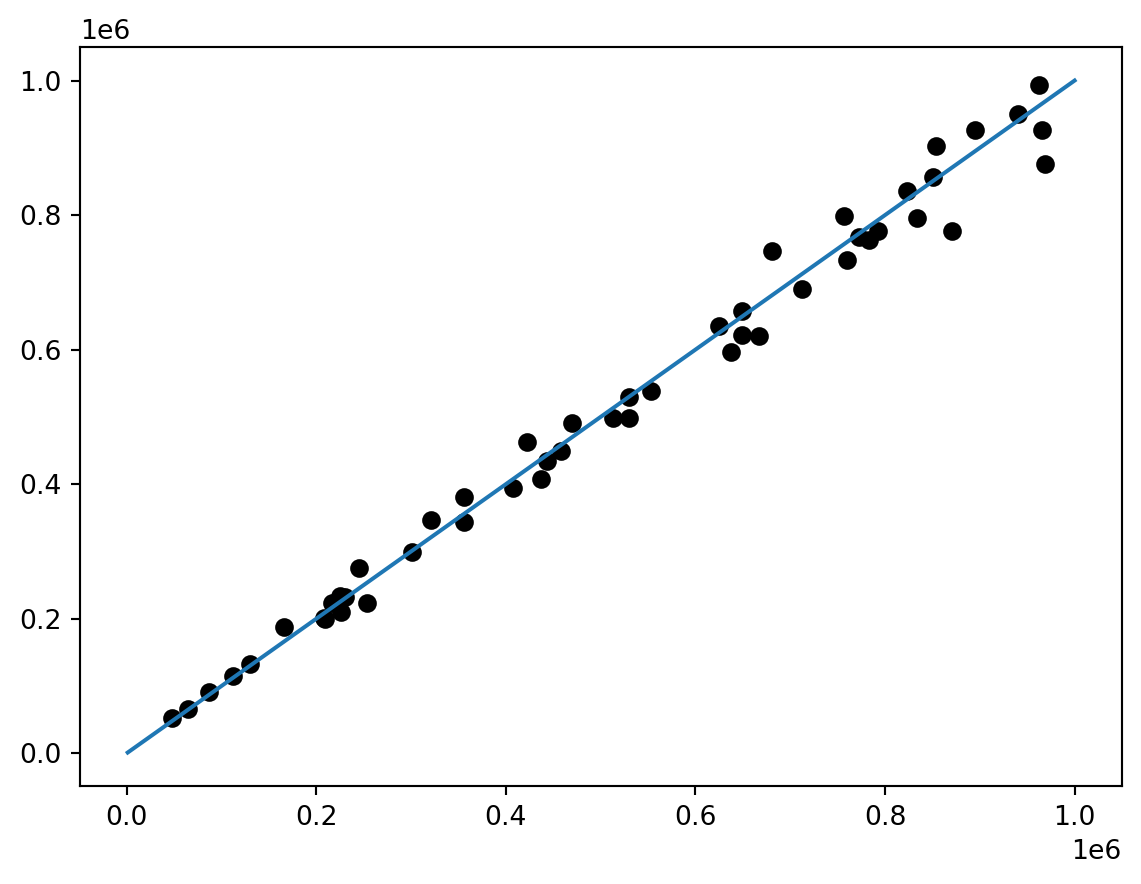
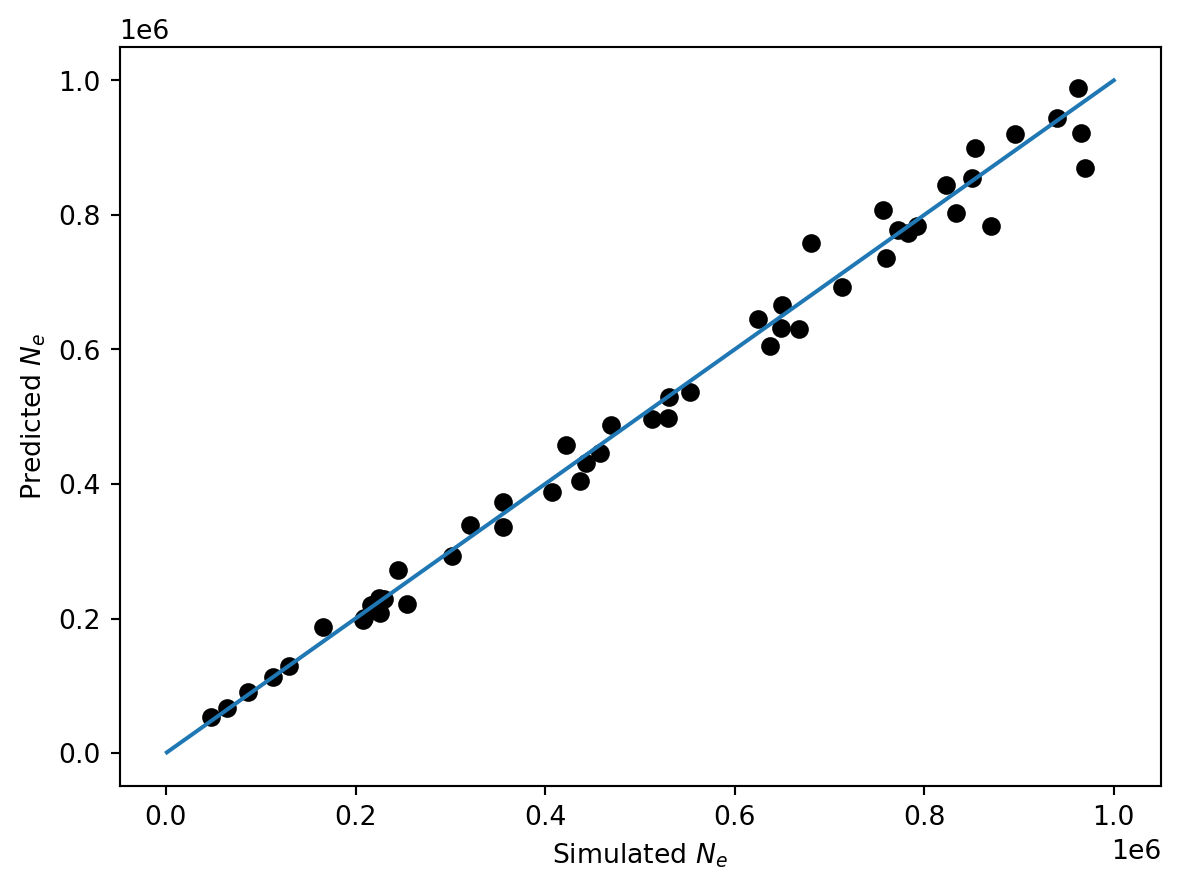
labeled axes, and minor edits

diff --git a/index.html b/index.html
@@ -112,7 +112,8 @@ code span.wa { color: #60a0b0; font-weight: bold; font-style: italic; } /* Warni
 
 
 
-<p># Deep Learning Popgen Crash Course</p>
+<section id="deep-learning-popgen-crash-course" class="level1">
+<h1>Deep Learning Popgen Crash Course</h1>
 <p>Here’s a quick tutorial on how you might deploy deep learning to solve a popgen problem.</p>
 <p>The lab has historically used Tensorflow and Keras, but we’re moving toward PyTorch, so we’ll use that here. A lot of the details overlap, and it’s useful to know both (at least a little).</p>
 <ol type="1">
@@ -436,34 +437,34 @@ Turns out batching data like this also has benefits for optimization, but even i
 <span id="cb12-36"><a href="#cb12-36" aria-hidden="true" tabindex="-1"></a>    <span class="cf">if</span> epoch <span class="op">%</span> <span class="dv">2</span> <span class="op">==</span> <span class="dv">0</span>:</span>
 <span id="cb12-37"><a href="#cb12-37" aria-hidden="true" tabindex="-1"></a>        <span class="bu">print</span>(<span class="ss">f'Epoch </span><span class="sc">{</span>epoch<span class="sc">}</span><span class="ss"> Loss </span><span class="sc">{</span>loss<span class="sc">.</span>item()<span class="sc">:.4f}</span><span class="ss">'</span>)</span></code><button title="Copy to Clipboard" class="code-copy-button"><i class="bi"></i></button></pre></div>
 <div class="cell-output cell-output-stdout">
-<pre><code>Epoch 0 Loss 0.2600</code></pre>
+<pre><code>Epoch 0 Loss 0.3823</code></pre>
 </div>
 <div class="cell-output cell-output-stdout">
-<pre><code>Epoch 2 Loss 0.1398</code></pre>
+<pre><code>Epoch 2 Loss 0.1863</code></pre>
 </div>
 <div class="cell-output cell-output-stdout">
-<pre><code>Epoch 4 Loss 0.0686</code></pre>
+<pre><code>Epoch 4 Loss 0.0580</code></pre>
 </div>
 <div class="cell-output cell-output-stdout">
-<pre><code>Epoch 6 Loss 0.1276</code></pre>
+<pre><code>Epoch 6 Loss 0.0840</code></pre>
 </div>
 <div class="cell-output cell-output-stdout">
-<pre><code>Epoch 8 Loss 0.4606</code></pre>
+<pre><code>Epoch 8 Loss 0.0409</code></pre>
 </div>
 <div class="cell-output cell-output-stdout">
-<pre><code>Epoch 10 Loss 0.1594</code></pre>
+<pre><code>Epoch 10 Loss 0.1573</code></pre>
 </div>
 <div class="cell-output cell-output-stdout">
-<pre><code>Epoch 12 Loss 0.0647</code></pre>
+<pre><code>Epoch 12 Loss 0.1474</code></pre>
 </div>
 <div class="cell-output cell-output-stdout">
-<pre><code>Epoch 14 Loss 0.0273</code></pre>
+<pre><code>Epoch 14 Loss 0.0535</code></pre>
 </div>
 <div class="cell-output cell-output-stdout">
-<pre><code>Epoch 16 Loss 0.1496</code></pre>
+<pre><code>Epoch 16 Loss 0.3484</code></pre>
 </div>
 <div class="cell-output cell-output-stdout">
-<pre><code>Epoch 18 Loss 0.0246</code></pre>
+<pre><code>Epoch 18 Loss 0.0359</code></pre>
 </div>
 </div>
 </section>
@@ -477,9 +478,11 @@ Turns out batching data like this also has benefits for optimization, but even i
 <span id="cb23-4"><a href="#cb23-4" aria-hidden="true" tabindex="-1"></a>    ax.scatter(popgen_training.Ne_scaling<span class="op">*</span>y_batch.item(), popgen_training.Ne_scaling<span class="op">*</span>pred.item(), color <span class="op">=</span> <span class="st">'black'</span>)</span>
 <span id="cb23-5"><a href="#cb23-5" aria-hidden="true" tabindex="-1"></a>one_one <span class="op">=</span> np.linspace(popgen_training.Ne_low, popgen_training.Ne_high, <span class="dv">100</span>)</span>
 <span id="cb23-6"><a href="#cb23-6" aria-hidden="true" tabindex="-1"></a>ax.plot(one_one, one_one)</span>
-<span id="cb23-7"><a href="#cb23-7" aria-hidden="true" tabindex="-1"></a>plt.show()</span></code><button title="Copy to Clipboard" class="code-copy-button"><i class="bi"></i></button></pre></div>
+<span id="cb23-7"><a href="#cb23-7" aria-hidden="true" tabindex="-1"></a>ax.set_xlabel(<span class="st">"Simulated $N_e$"</span>)</span>
+<span id="cb23-8"><a href="#cb23-8" aria-hidden="true" tabindex="-1"></a>ax.set_ylabel(<span class="st">"Predicted $N_e$"</span>)</span>
+<span id="cb23-9"><a href="#cb23-9" aria-hidden="true" tabindex="-1"></a>plt.show()</span></code><button title="Copy to Clipboard" class="code-copy-button"><i class="bi"></i></button></pre></div>
 <div class="cell-output cell-output-display">
-<p><img src="popgenDL_crashcourse_files/figure-html/cell-10-output-1.png" width="571" height="442"></p>
+<p><img src="popgenDL_crashcourse_files/figure-html/cell-10-output-1.png" width="590" height="445"></p>
 </div>
 </div>
 </section>
@@ -489,12 +492,12 @@ Turns out batching data like this also has benefits for optimization, but even i
 <p>So that went pretty well. This is pretty bare bones, but hopefully it gives you a sense of how you might approach a popgen problem with deep learning.</p>
 <p>Here’s somethign you might try to edit in the above to gain more familiarity with the process.</p>
 <ul>
-<li><p>What’s the current speed bottleneck in the process and how might you speed things up?</p></li>
 <li><p>Try other architectures, loss functions, and optimizers.</p></li>
 <li><p>Modify hyperparameters. What is numsites and what happens if you change it?</p></li>
 <li><p>How else could we monitor training progress? Did we use the validation data?</p>
 <p>Answer: No we did not, but how can we incorporate it?</p></li>
 </ul>
+</section>
 </section>
 
 </main>
